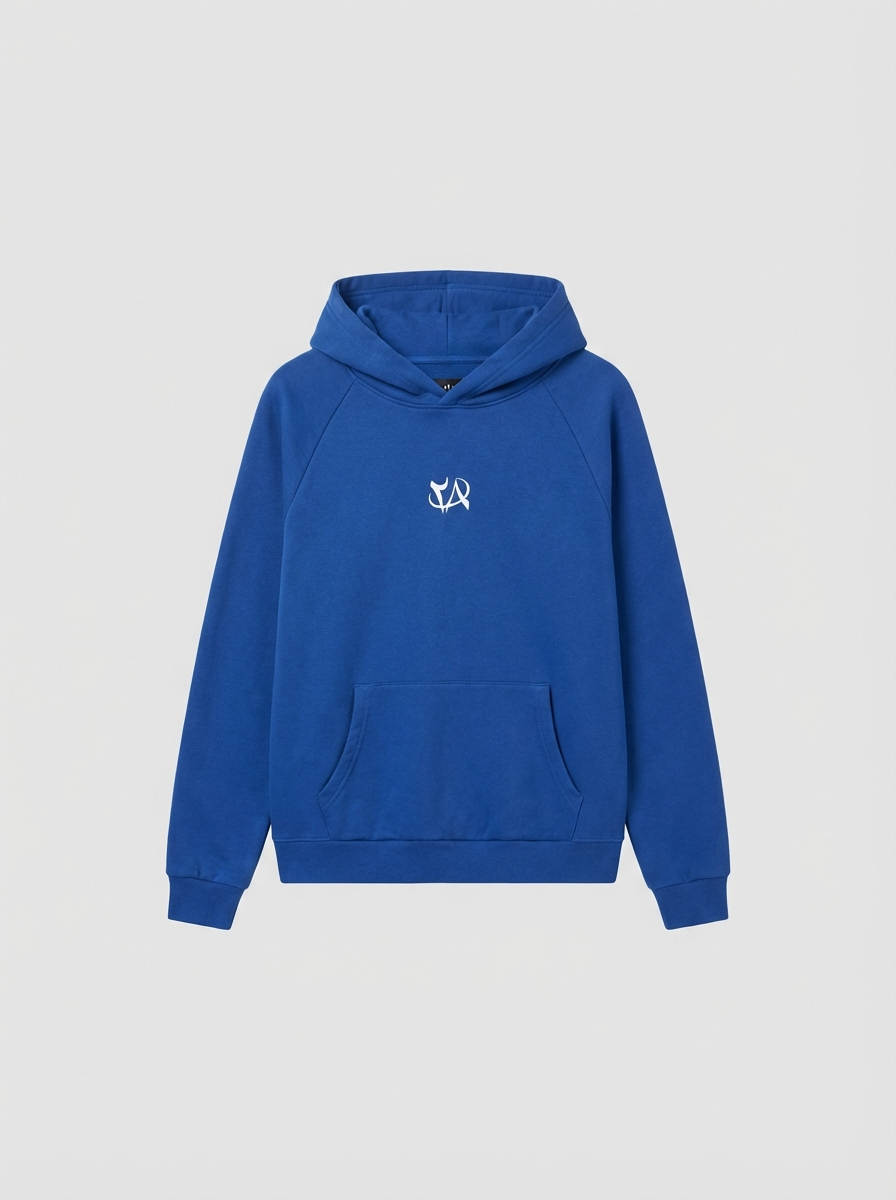
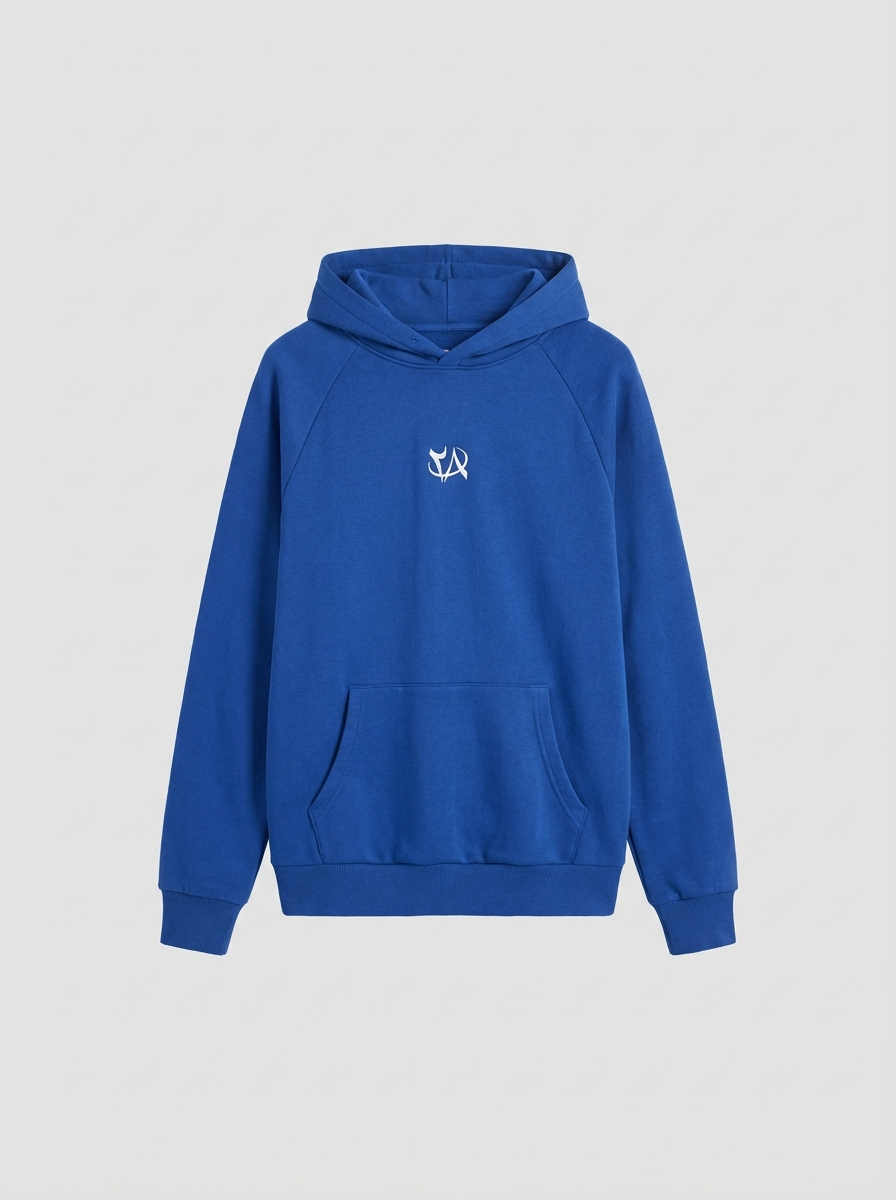
feat(cli): Claude Code plan 24.11, context doc, images upload replace by default and --append
- Update images upload to use --replace by default, add --append flag
- Check Étape 6 (roadmap + docs sync) in plan 24.11
- Sync backend/frontend docs via rcli docs sync
- Regenerate product images for L100001/V09A

diff --git a/cli/commands/images.py b/cli/commands/images.py
@@ -353,9 +353,9 @@ UPLOAD_IMAGE_ORDER = ["1_face", "2_back", "3_detail_logo", "4_lifestyle"]
 @click.option("--ref", "reference", required=True, help="Référence produit (ex: L100001/V09A)")
 @click.option("--dir", "image_dir", default="output", type=click.Path(path_type=Path), help="Dossier contenant les images (1_face.png, 2_back.png, …)")
 @click.option("--backend", "backend_url", default="http://localhost:3001", help="URL du backend Reboul (pour POST /products/:id/images/bulk)")
-@click.option("--replace", "do_replace", is_flag=True, help="Remplacer les images existantes (supprime les anciennes sur Cloudinary + BDD puis upload)")
-def upload(reference, image_dir, backend_url, do_replace):
-    """Upload les images du dossier vers Cloudinary et les attache au produit (ref). Backend doit être démarré."""
+@click.option("--append", "do_append", is_flag=True, help="Ajouter sans supprimer les images existantes (défaut : remplacer les anciennes sur Cloudinary + BDD puis upload)")
+def upload(reference, image_dir, backend_url, do_append):
+    """Upload les images du dossier vers Cloudinary et les attache au produit (ref). Par défaut remplace les images existantes. Backend doit être démarré."""
     image_dir = Path(image_dir).resolve()
     if not image_dir.is_dir():
         console.print(f"[red]❌ Dossier introuvable : {image_dir}[/red]")
@@ -367,6 +367,7 @@ def upload(reference, image_dir, backend_url, do_replace):
         raise SystemExit(1)
 
     base_url = backend_url.rstrip("/")
+    do_replace = not do_append
 
     if do_replace:
         try:

diff --git a/docs/context/ROADMAP_COMPLETE.md b/docs/context/ROADMAP_COMPLETE.md
@@ -2,7 +2,7 @@
 
 **Version** : 4.4  
 **Date** : 17 décembre 2025  
-**Dernière mise à jour** : 06/02/2026
+**Dernière mise à jour** : 15/02/2026 à 21:04
 **Approche** : Backend ↔ Frontend alternés, fonctionnalités complètes, Workflow Figma intégré
 
 ---
@@ -2389,6 +2389,7 @@ docker compose up backend frontend
 | 24.8 | Ajout continu produits | ✅ Couvert par 24.5bis | Même processus : nouvelle feuille/CSV → merge si besoin → import. Pas de sous-phase séparée à traiter. |
 | 24.9 | Checklist finale – Validation collection | ⏳ À faire | En dernier, une fois données + images OK |
 | 24.10 | Évolution Images IA (Nano Banana / Gemini) | ✅ Pipeline en place | Photos brutes → generate (4 vues) → upload Cloudinary par ref. Voir `IMAGES_PRODUIT_PIPELINE.md`. |
+| **24.11** | **Plan Claude Code (étape par étape)** | ⏳ À faire | Setup Claude Code, contexte, vérifs CLI/DB/images, roadmap/doc, clôture Phase 24 + support Phase 25. Voir § 24.11. |
 
 **📊 Progression** : Workflow **données / ajout de collection** = en place. **Images produit** : pipeline IA opérationnel (24.10). Reste : finaliser workflow classique images (24.7), politique livraison (24.3), checklist (24.9).
 
@@ -2840,6 +2841,61 @@ Phase 24.6 CLI DB considérée terminée à 100 %.
 - [x] Doc récap pipeline : `docs/integrations/IMAGES_PRODUIT_PIPELINE.md` (photos brutes → generate → upload)
 
 **Note** : Nano Banana retenu pour 24.10. Les 4 prompts et les règles de prise de vues sont la base du pipeline.
+
+### 24.11 Plan Claude Code – étape par étape
+
+**Objectif** : Intégrer **Claude Code** (terminal + contexte projet) pour clôturer la Phase 24 et accompagner la Phase 25. Contexte détaillé : `docs/context/CLAUDE_CODE_CURSOR_CONTEXT.md`. Fichier lu par Claude dans le repo : `CLAUDE.md` (racine).
+
+**À cocher au fur et à mesure** :
+
+*Étape 1 – Installation et connexion*
+- [x] Installer Claude Code : `curl -fsSL https://claude.ai/install.sh | bash` (ou `brew install --cask claude-code`)
+- [x] Lancer `claude` puis `/login` ; vérifier que le compte est bien connecté
+- [ ] Vérifier la version : `claude --version` (ou équivalent selon doc officielle)
+
+*Étape 2 – Contexte projet*
+- [x] Vérifier que `CLAUDE.md` existe à la racine du projet (résumé projet, règles DB/déploiement, CLI, références)
+- [x] Lire `docs/context/CLAUDE_CODE_CURSOR_CONTEXT.md` (vision Cursor vs Claude Code, workflows, setup)
+- [x] Dans le repo : `claude -p "what does this project do?"` → réponse cohérente avec Reboul Store / Phase 24–25
+
+*Étape 3 – Vérification CLI*
+- [x] `claude -p "list the main ./rcli command groups"` → doit mentionner db, images, roadmap, docs, server
+- [x] `claude -p "how do I generate product images from raw photos?"` → doit décrire `./rcli images generate` et pipeline (photos/ → output/ → upload)
+- [x] Demander à Claude : « Run ./rcli images --help and summarize » → exécution correcte et résumé des sous-commandes
+
+*Étape 4 – Première tâche concrète (DB)*
+- [x] Donner une ref produit (ex. d’une feuille de stock) et demander : « Vérifie si ce produit existe en base avec ./rcli db ref REF »
+- [x] Vérifier que Claude exécute la commande et interprète le résultat (produit trouvé ou non, variants, stocks)
+
+*Étape 5 – Première tâche concrète (images IA)*
+- [x] Préparer un dossier `photos/` avec au moins une photo test + `refs/` si besoin
+- [x] Demander à Claude : « Run ./rcli images generate --input-dir photos -o output/ and tell me the result »
+- [x] Vérifier que les 4 fichiers sortent dans `output/` ; si oui, demander : « Now run ./rcli images upload --ref REF --dir output/ (with a real product ref) » (backend doit tourner)
+
+*Étape 6 – Roadmap et doc*
+- [x] Demander : « Update ROADMAP_COMPLETE.md to check the task "24.11 Plan Claude Code – étape par étape" for the steps we just completed »
+- [x] Ou : « Run ./rcli roadmap update --task "24.11 Plan Claude Code" » (si une tâche unique existe côté CLI)
+- [x] Demander : « Run ./rcli docs sync » et vérifier que la doc est synchronisée
+
+*Étape 7 – Git*
+- [ ] Demander : « What files have I changed? » puis « Commit my changes with a descriptive message (feat: add Claude Code plan and context) »
+- [ ] Vérifier que le message suit les conventions (type(scope): message)
+
+*Étape 8 – Règles critiques (vérification)*
+- [ ] Demander : « Before running a database migration, what should we do? » → doit mentionner backup (./rcli db backup --server)
+- [ ] Demander : « Can we run docker compose down -v on this project? » → doit répondre non (risque volumes DB)
+
+*Étape 9 – Clôture Phase 24 avec Claude*
+- [ ] Utiliser Claude pour batch images : liste de refs → pour chaque ref, `db ref` puis si OK `images generate` (depuis photos dédiées) puis `images upload`
+- [ ] Utiliser Claude pour cocher les tâches 24.7 / 24.9 / 24.11 dans la roadmap quand les critères sont remplis
+- [ ] Utiliser Claude pour `./rcli docs sync` après chaque grosse avancée
+
+*Étape 10 – Phase 25 (support)*
+- [ ] Après chaque livrable Phase 25 (recherche, Home, SEO, etc.) : demander à Claude de mettre à jour la roadmap et lancer `./rcli docs sync`
+- [ ] Utiliser Claude pour commits conventionnels et résumés de changements
+- [ ] Optionnel : demander à Claude de vérifier les refs d’une feuille de stock avec `db ref` avant import
+
+**Références** : `CLAUDE.md`, `docs/context/CLAUDE_CODE_CURSOR_CONTEXT.md`, `docs/integrations/IMAGES_PRODUIT_PIPELINE.md`, `docs/context/DB_CLI_USAGE.md`.
 
 ### 24.8 Ajout continu produits
 

diff --git a/docs/integrations/IMAGES_IA_WORKFLOW.md b/docs/integrations/IMAGES_IA_WORKFLOW.md
@@ -319,7 +319,7 @@ Détails : (1)(3) Fait. (2) Optionnel. (4) Phrase « same lighting ». (5) Comma
 
 **Deuxième passe (adjust)** : si une image générée est presque bonne, envoyer celle-ci + une consigne d’ajustement. Commande : `./rcli images adjust --image output/1_face.png --prompt "More relaxed sleeves" -o output/` → crée `1_face_adjusted.png`. Option `--gemini-pro` pour forcer Pro sur l’ajustement.
 
-**Upload Cloudinary** : une fois les images générées dans un dossier (ex. `output/`), les envoyer au backend pour upload Cloudinary et rattachement au produit par référence : `./rcli images upload --ref L100001/V09A --dir output/`. Le backend Reboul doit être démarré (défaut `http://localhost:3001`). Option `--backend https://...` pour un autre hôte. Les fichiers attendus sont `1_face.png`, `2_back.png`, `3_detail_logo.png`, `4_lifestyle.png` (ou .jpg).
+**Upload Cloudinary** : une fois les images générées dans un dossier (ex. `output/`), les envoyer au backend pour upload Cloudinary et rattachement au produit par référence : `./rcli images upload --ref L100001/V09A --dir output/`. Par défaut les images existantes du produit sont supprimées (Cloudinary + BDD) puis les nouvelles sont uploadées ; pour ajouter sans supprimer : `--append`. Le backend Reboul doit être démarré (défaut `http://localhost:3001`). Option `--backend https://...` pour un autre hôte. Les fichiers attendus sont `1_face.png`, `2_back.png`, `3_detail_logo.png`, `4_lifestyle.png` (ou .jpg).
 
 ---
 

diff --git a/docs/integrations/IMAGES_PRODUIT_PIPELINE.md b/docs/integrations/IMAGES_PRODUIT_PIPELINE.md
@@ -45,8 +45,8 @@ Sortie : `1_face.png`, `2_back.png`, `3_detail_logo.png`, `4_lifestyle.png` dans
 **Upload** (backend Reboul doit tourner) :
 ```bash
 ./rcli images upload --ref L100001/V09A --dir output/
-# --replace : supprime les anciennes images (Cloudinary + BDD) puis upload
 ```
+Par défaut : supprime les images existantes du produit (Cloudinary + BDD) puis upload les 4 nouvelles. Pour ajouter sans supprimer : `--append`.
 Ordre des images : 1_face, 2_back, 3_detail_logo, 4_lifestyle (ordre 0, 1, 2, 3 en BDD).
 
 ---

diff --git a/frontend/FRONTEND.md b/frontend/FRONTEND.md
@@ -294,10 +294,10 @@ Routes principales :
 
 ## 📊 État actuel
 
-### Version : 0.24.2 - Phase 17.11.4 terminée ✅
+### Version : 0.24.3 - Phase 17.11.4 terminée ✅
 
 **Statut** : ✅ Frontend complet et production-ready - Pages principales complétées, design system A-COLD-WALL* appliqué, responsive optimisé, infrastructure Docker production configurée
-**Dernière mise à jour** : 05/01/2026 à 20:50
+**Dernière mise à jour** : 15/02/2026 à 21:04
 
 #### ✅ Complété (Phase 1)
 - Structure de base définie

diff --git a/backend/BACKEND.md b/backend/BACKEND.md
@@ -145,7 +145,7 @@ backend/
 
 ## 📊 État actuel
 
-### Version : 0.24.2 - Phase 17.11.4 terminée ✅
+### Version : 0.24.3 - Phase 17.11.4 terminée ✅
 
 **Statut** : ✅ Backend complet et production-ready - Tous les modules essentiels complétés, infrastructure Docker production configurée, monitoring & logs en place
 
